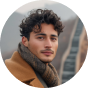
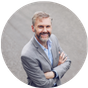
Implemented Profile Screen

diff --git a/app/(root)/(tabs)/profile.tsx b/app/(root)/(tabs)/profile.tsx
@@ -1,12 +1,109 @@
 import React from 'react';
-import { Text, View } from 'react-native';
+import { Alert, Image, ImageSourcePropType, ScrollView, Text, TouchableOpacity, View } from 'react-native';
+import { SafeAreaView } from 'react-native-safe-area-context';
+
+import { settings } from '@/constants/data';
+import icons from "@/constants/icons";
+import { logout } from '@/lib/appwrite';
+import { useGlobalContext } from '@/lib/global-provider';
+
+interface SettingsItemProp {
+  icon: ImageSourcePropType;
+  title: string;
+  onPress?: () => void;
+  textStyle?: string;
+  showArrow?: boolean;
+}
+
+const SettingsItem = ({
+  icon, 
+  title,
+  onPress, 
+  textStyle, 
+  showArrow=true,
+}: SettingsItemProp) => (
+  <TouchableOpacity 
+   onPress={onPress} 
+   className='flex flex-row items-center justify-between py-3'
+   >
+    <View className='flex flex-row items-center gap-3'>
+      <Image source={icon} className='size-6'/>
+      <Text className={`text-lg font-rubik-medium text-black-300 ${textStyle}`}>
+        {title}
+      </Text>
+    </View>
+
+    {showArrow && <Image source={icons.rightArrow} className='size-5'/>}
+  </TouchableOpacity>
+);
 
 const Profile = () => {
+  const { user, refetch } = useGlobalContext();
+
+  const handleLogout = async () => {
+     const result = await logout();
+     if (result) {
+         Alert.alert('Success', 'Logged out successfully');
+         refetch();
+     } else {
+         Alert.alert('Error', 'Failed to login')
+     }
+    };
+
+
   return (
-    <View>
-      <Text>rofile</Text>
-    </View>
-  )
-}
+    <SafeAreaView className="h-full bg-white">
+      <ScrollView
+          showsVerticalScrollIndicator={false}
+          contentContainerClassName='pb-32 px-7'
+      >
+          <View className='flex flex-row items-center justify-between mt-5'>
+              <Text className='text-xl font-rubik-bold'>
+                Profile
+              </Text>
+              <Image source={icons.bell} className='size-5'/>
+          </View>
+
+          <View className='flex-row justify-center flex mt-5'>
+            <View className='flex flex-col items-center relative mt-5'>
+              <Image
+                source={
+                  user?.avatar
+                    ? { uri: user.avatar }
+                    : icons.person
+                }
+                className='size-44 relative rounded-full'
+              />
+                 <TouchableOpacity className='absolute bottom-11 right-2'>
+                  <Image source={icons.edit} className='size-9'/>
+                 </TouchableOpacity>
+                 <Text className='text-2xl font-rubik-bold mt-1'> {user?.name} </Text>
+            </View>
+          </View>
+
+          <View className='flex flex-col mt-10'>
+             <SettingsItem icon={icons.calendar} title='My Bookings'/>
+             <SettingsItem icon={icons.wallet} title='Payments'/>
+          </View>
+
+          <View className='flex flex-col mt-5 border-t pt-5 border-primary-200'>
+            {settings.slice(2).map((item, index) => (
+              <SettingsItem key={index} {...item} />
+            ))}
+          </View>
+         
+          <View className='flex flex-col mt-5 border-t pt-5 border-primary-200'>
+            <SettingsItem 
+              icon={icons.logout} 
+              title='Logout' 
+              textStyle='text-danger'
+              showArrow={false} 
+              onPress={handleLogout}
+            />
+          </View>     
+      </ScrollView>
+    </SafeAreaView>
+  );
+};
 
 export default Profile;

diff --git a/lib/useAppwrite.ts b/lib/useAppwrite.ts
@@ -31,10 +31,23 @@ export const useAppwrite = <T, P extends Record<string, string | number>>({
       try {
         const result = await fn(fetchParams);
         setData(result);
-      } catch (err: unknown) {
+      } catch (err: any) {
         const errorMessage =
-          err instanceof Error ? err.message : "An unknown error occurred";
+          err instanceof Error
+            ? err.message
+            : "An unknown error occurred";
+
+        // Ignore guest/no-session errors
+        if (
+          errorMessage.includes("missing scopes") ||
+          err?.code === 401
+        ) {
+          setData(null);
+          return;
+        }
+
         setError(errorMessage);
+
         Alert.alert("Error", errorMessage);
       } finally {
         setLoading(false);
@@ -43,14 +56,13 @@ export const useAppwrite = <T, P extends Record<string, string | number>>({
     [fn] // Memorize the function to ensure stability unless
   );
  
-  // Automaticallyfetch data on component mount, unless 'skip' is 
+  // Automatically fetch data on component mount unless skip is true
   useEffect(() => {
     if (!skip) {
       fetchData(params);
     }
   }, []);
 
-  // Refetch function to fetch data with new parameters
   const refetch = async (newParams: P) => await fetchData(newParams);
 
   return { data, loading, error, refetch };

diff --git a/lib/appwrite.ts b/lib/appwrite.ts
@@ -33,28 +33,27 @@ export async function login () {
             OAuthProvider.Google, 
             redirectUri
         );
-        if (!response) throw new Error('Failed to login');
+        if (!response) throw new Error('Create OAuth2 token failed');
 
         const browserResult = await openAuthSessionAsync(
             response.toString(),
             redirectUri
         );
         if (browserResult.type !== 'success') 
-            throw new Error ('Failed to login');
+            throw new Error ('Create OAuth2 token failed');
 
         const url = new URL(browserResult.url);
-
         const secret = url.searchParams.get('secret')?.toString();
         const userId = url.searchParams.get('userId')?.toString();
 
-        if (!secret || !userId) throw new Error ('Failed to login');
+        if (!secret || !userId) throw new Error ('Create OAuth2 token failed');
 
         const session = await account.createSession(userId, secret);
 
-        if (!session) throw new Error('Failed to login');
+        if (!session) throw new Error('Failed to create session');
 
         return true;      
-    } catch (error) {
+      } catch (error) {
         console.error(error);
         return false;
     }
@@ -63,12 +62,11 @@ export async function login () {
 export async function logout() {
     try {
         const result = await account.deleteSession('current');
-        return true;
+        return result;
     }catch (error) {
         console.error(error);
         return false;
     }
-
 }
 
 export async function getCurrentUser() {
@@ -83,8 +81,8 @@ export async function getCurrentUser() {
         }
 
         return null;
-    } catch (error) {
-        console.error(error);
+      } catch (error) {
+        console.log(error);
         return null;
     }
 }